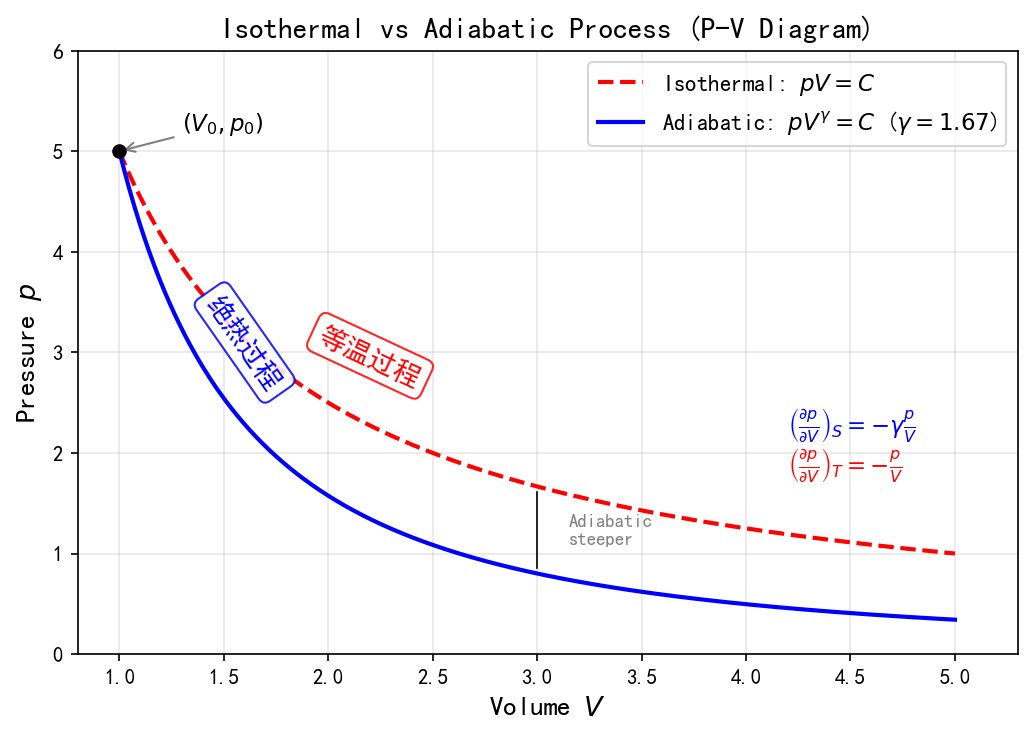
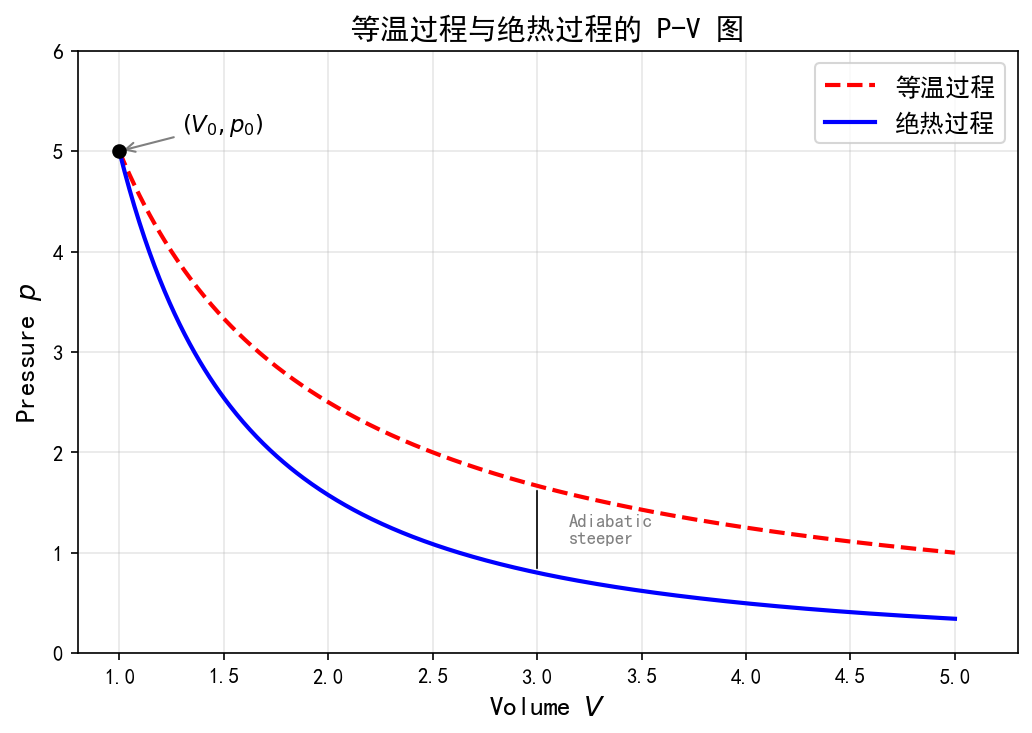
vault backup: 2026-06-19 14:56:39

diff --git a/knowledge/physchem/images/gen_pv_diagram.py b/knowledge/physchem/images/gen_pv_diagram.py
@@ -21,8 +21,8 @@ p_ad = C_ad / V**gamma
 
 fig, ax = plt.subplots(figsize=(7, 5))
 
-ax.plot(V, p_iso, 'r--', linewidth=2, label=r'Isothermal: $pV = C$')
-ax.plot(V, p_ad, 'b-', linewidth=2, label=rf'Adiabatic: $pV^\gamma = C$ ($\gamma = {gamma:.2f}$)')
+ax.plot(V, p_iso, 'r--', linewidth=2, label='等温过程')
+ax.plot(V, p_ad, 'b-', linewidth=2, label='绝热过程')
 
 ax.scatter([V0], [p0], color='black', zorder=5)
 ax.annotate(r'$(V_0, p_0)$', xy=(V0, p0), xytext=(V0+0.3, p0+0.2),
@@ -36,25 +36,13 @@ ax.plot([V_mid, V_mid], [p_ad_mid+0.05, p_iso_mid-0.05], 'k-', linewidth=0.8)
 ax.annotate('Adiabatic\nsteeper', xy=(V_mid+0.15, (p_iso_mid+p_ad_mid)/2),
             fontsize=9, color='gray', ha='left', va='center')
 
-# Chinese labels on curves
-ax.text(2.2, C_iso/2.2 + 0.35, '等温过程', fontsize=13, color='red', fontweight='bold',
-        rotation=-25, ha='center', va='bottom',
-        bbox=dict(boxstyle='round,pad=0.3', facecolor='white', edgecolor='red', alpha=0.85))
-ax.text(1.6, C_ad/1.6**gamma + 0.3, '绝热过程', fontsize=13, color='blue', fontweight='bold',
-        rotation=-55, ha='center', va='bottom',
-        bbox=dict(boxstyle='round,pad=0.3', facecolor='white', edgecolor='blue', alpha=0.85))
-
 ax.set_xlabel('Volume $V$', fontsize=13)
 ax.set_ylabel('Pressure $p$', fontsize=13)
-ax.set_title('Isothermal vs Adiabatic Process (P-V Diagram)', fontsize=14, fontweight='bold')
-ax.legend(fontsize=11, loc='upper right')
+ax.set_title('等温过程与绝热过程的 P-V 图', fontsize=14, fontweight='bold')
+ax.legend(fontsize=12, loc='upper right')
 ax.set_xlim(0.8, 5.3)
 ax.set_ylim(0, p0+1)
 ax.grid(True, alpha=0.3)
-
-# Slope formula annotations
-ax.text(4.2, 2.2, r'$\left(\frac{\partial p}{\partial V}\right)_S = -\gamma\frac{p}{V}$', fontsize=11, color='blue')
-ax.text(4.2, 1.8, r'$\left(\frac{\partial p}{\partial V}\right)_T = -\frac{p}{V}$', fontsize=11, color='red')
 
 plt.tight_layout()
 

diff --git a/knowledge/physchem/热力学.md b/knowledge/physchem/热力学.md
@@ -199,15 +199,8 @@ W &= -\int_{V_1}^{V_2} p\mathrm{d}V = -\int_{V_1}^{V_2} \frac{C_{2}}{V^\gamma}\m
 \end{aligned}
 $$
 
-```mermaid
-%%{init: {'theme': 'base'}}%%
-xychart-beta
-    title "绝热过程 P-V 图"
-    x-axis [V1, V2]
-    y-axis [P]
-    line [P1, P2]
-    line [P1', P2']
-```
+![[isothermal_vs_adiabatic_PV.png]]
+
 
 等温线：$\left(\frac{\partial p}{\partial V}\right)_T = -\frac{p}{V}$，体积变大
 
